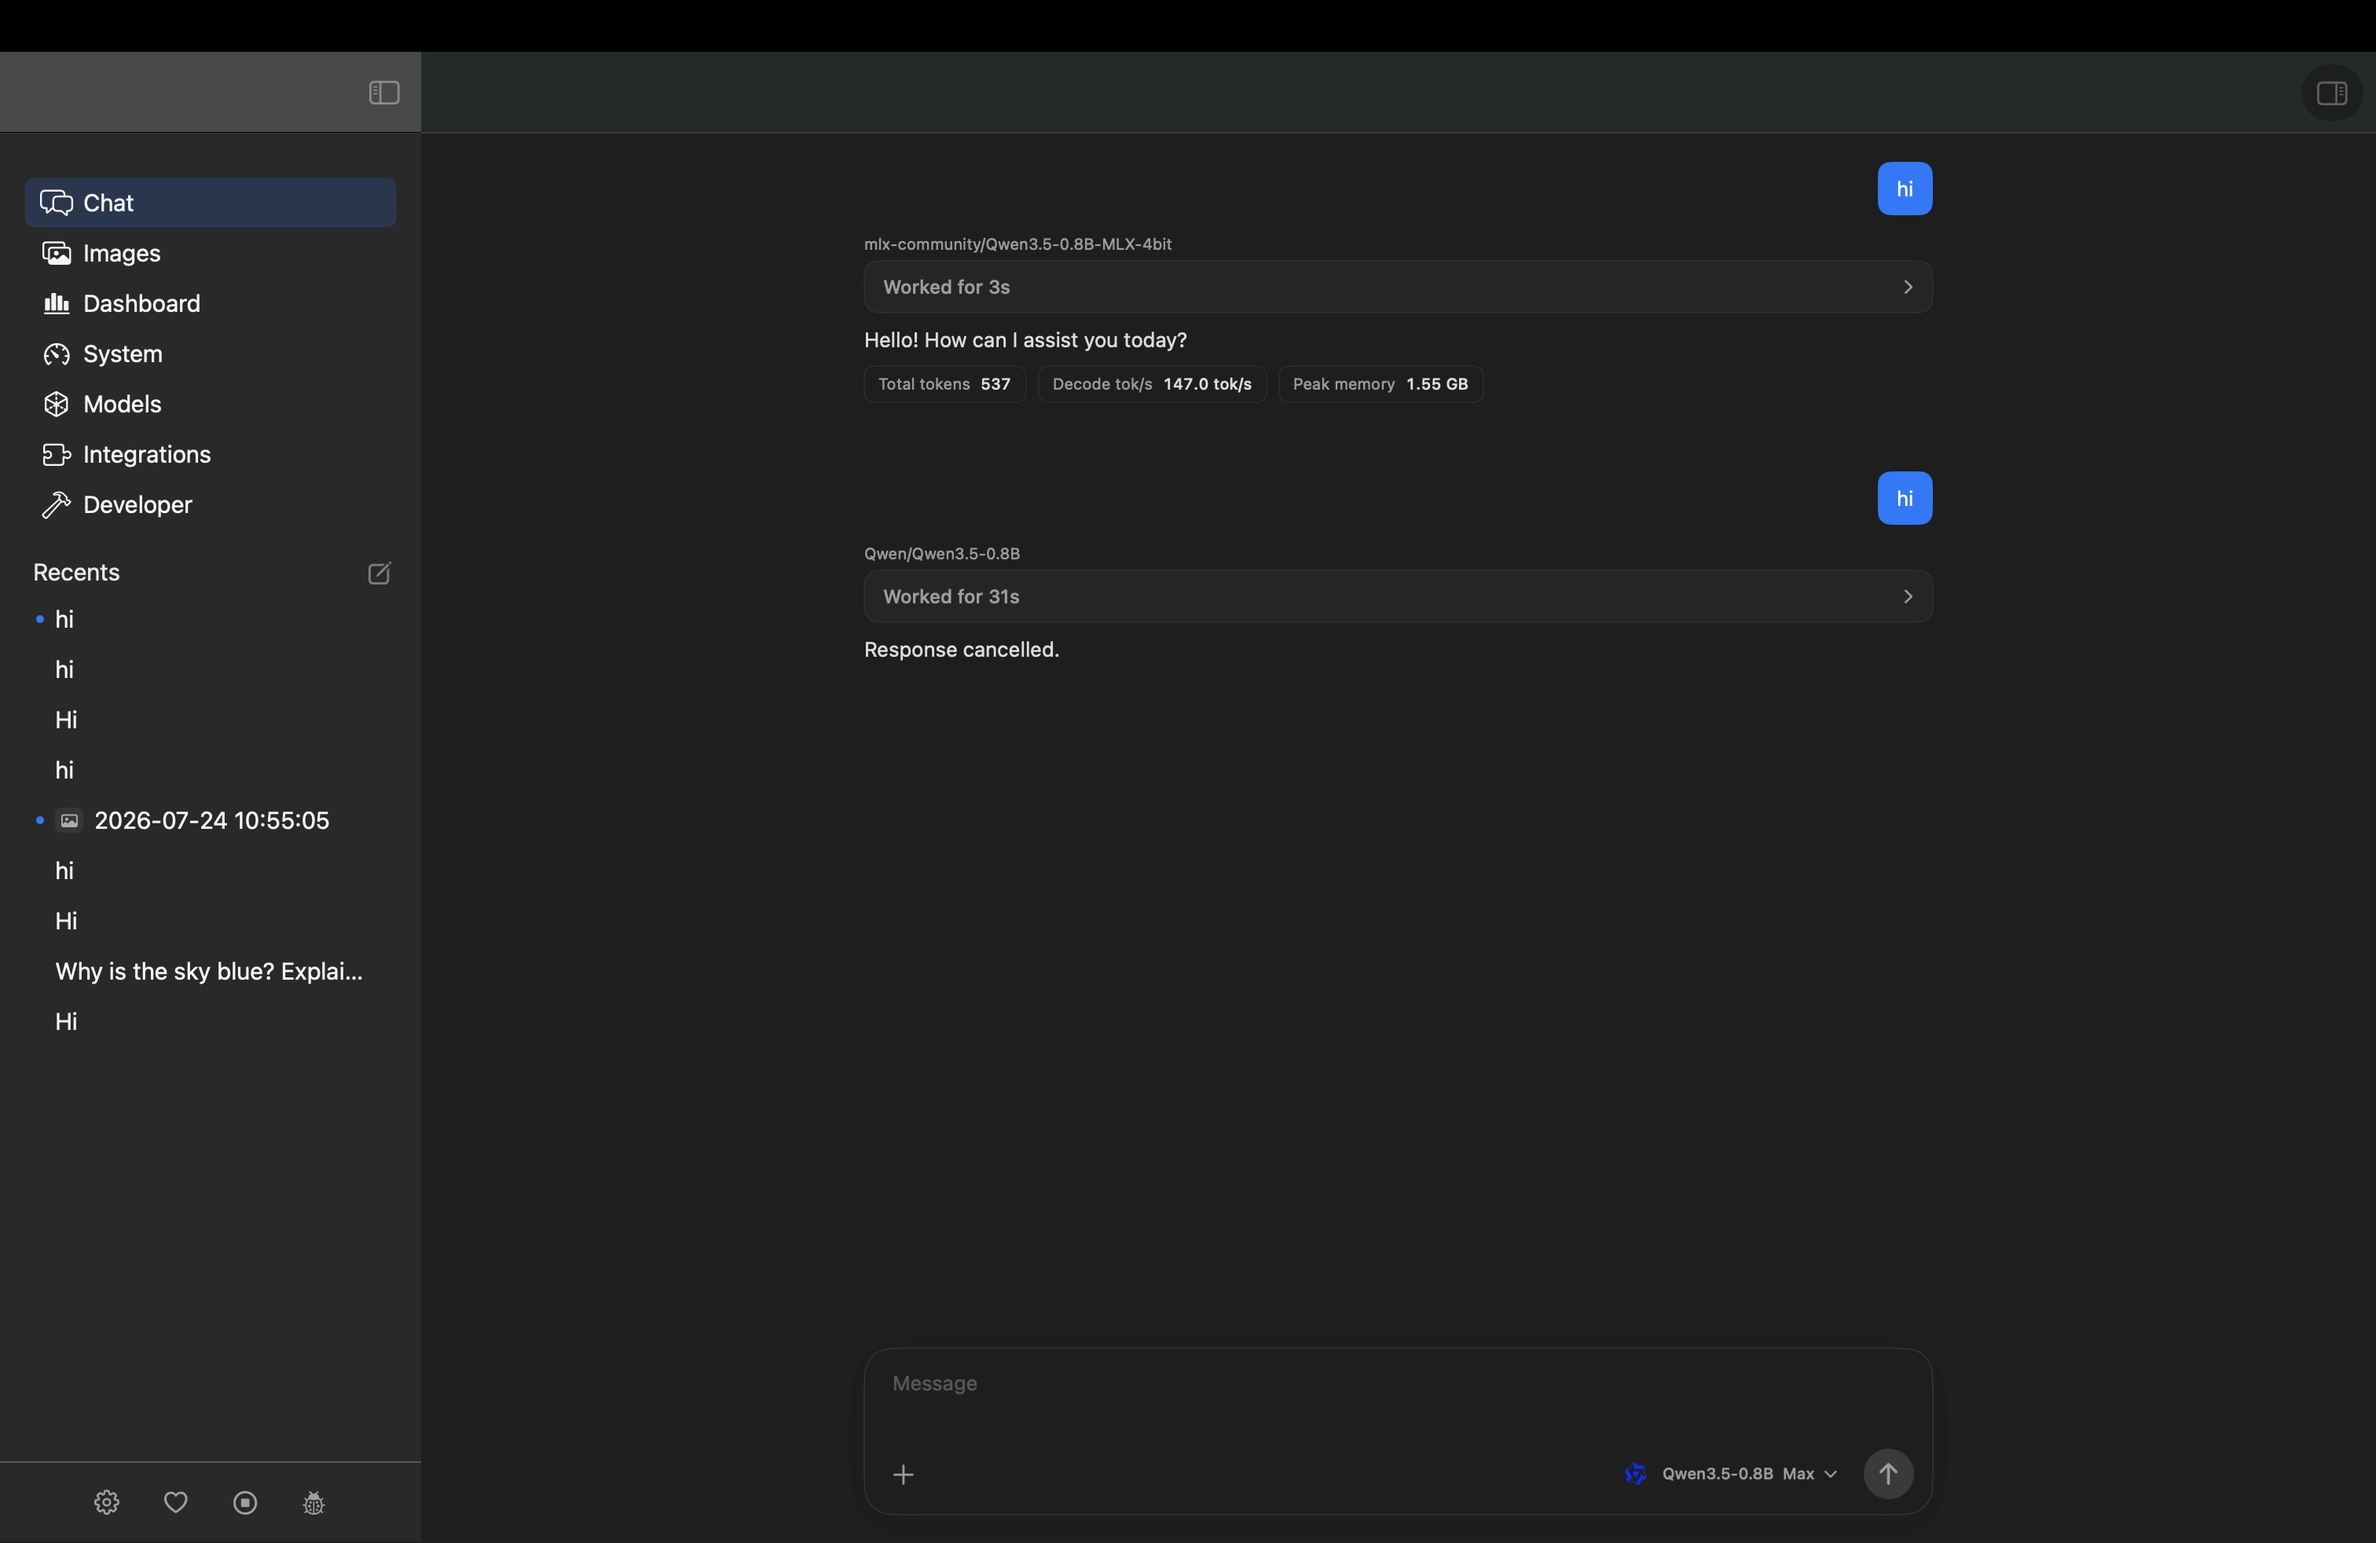
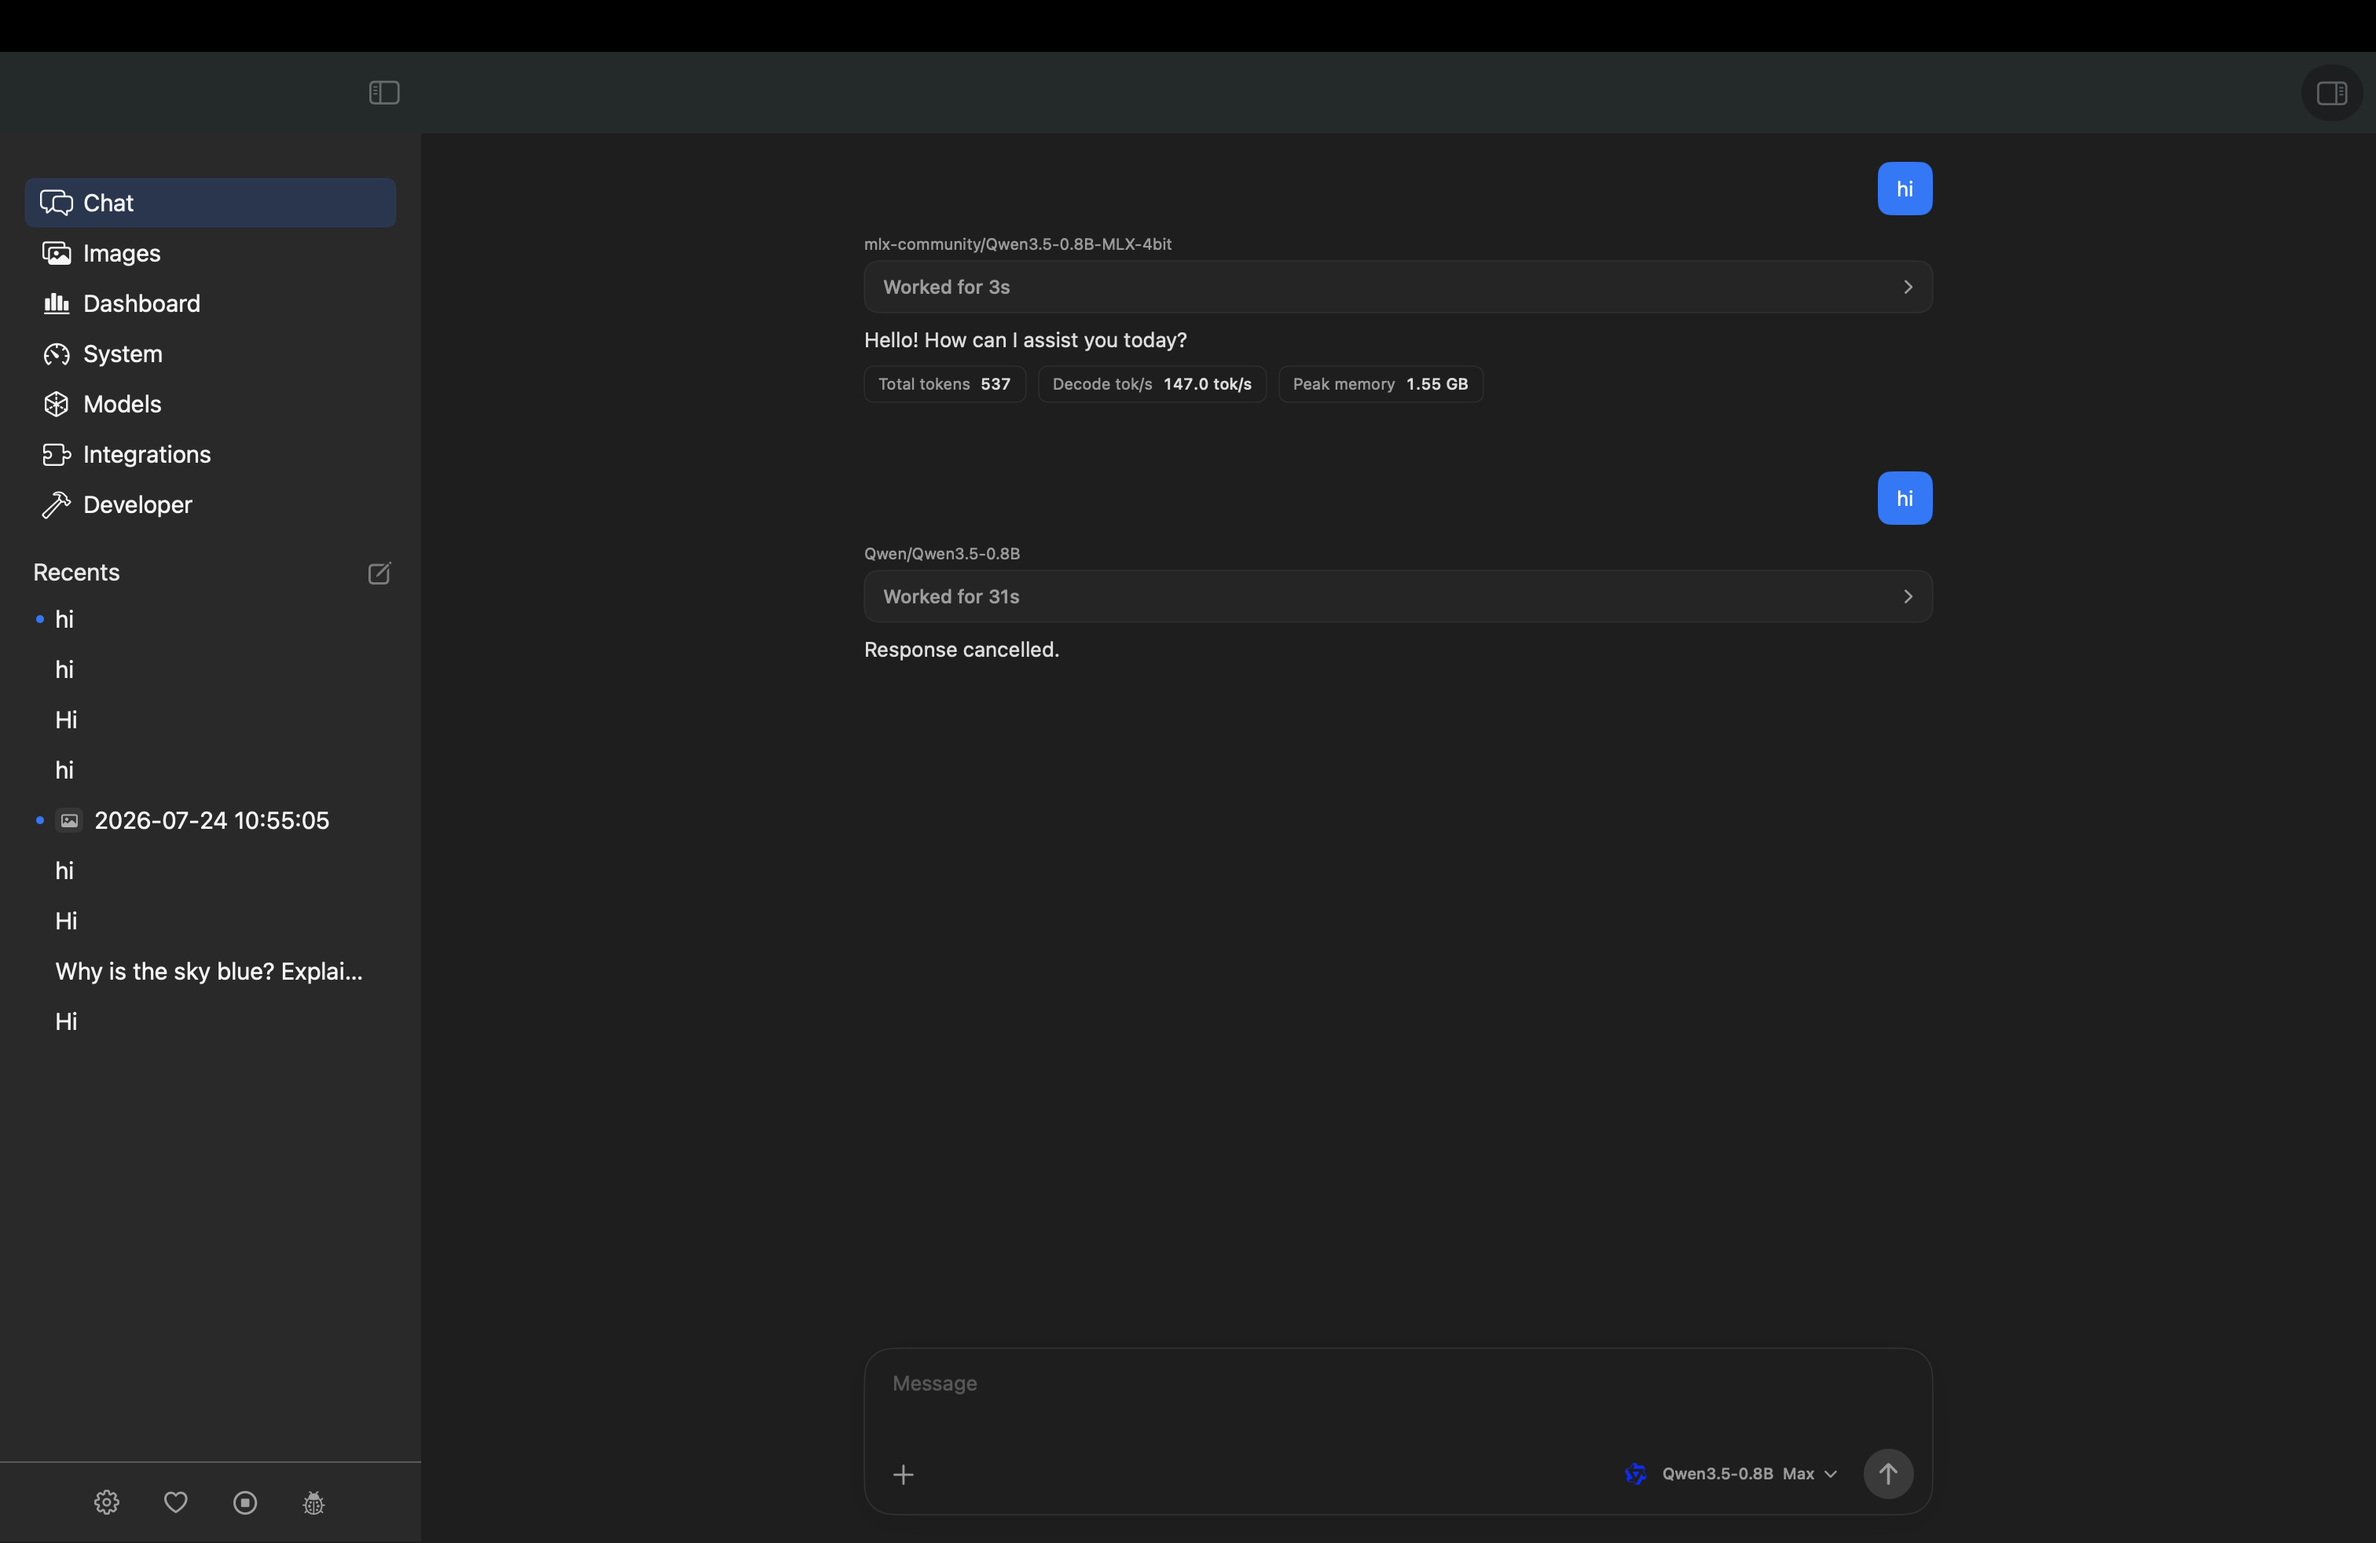
Unify full-screen titlebar styling

Changed region(s): [[0.0, 0.0311, 0.1865, 0.0932]]

diff --git a/Sources/Nativ/ControlPanelView.swift b/Sources/Nativ/ControlPanelView.swift
@@ -1169,14 +1169,17 @@ private final class ControlPanelSurfaceReaderView: NSView {
     private func configureFullScreenTitlebarFill() {
         guard isFullScreen, let window else { return }
 
-        let toolbarWindow = NSApp.windows.first {
+        guard let toolbarWindow = NSApp.windows.first(where: {
             $0 !== window
                 && $0.isVisible
                 && $0.frame.height > 0
                 && $0.frame.height <= 100
                 && abs($0.frame.width - window.frame.width) < 1
+        }), let contentView = toolbarWindow.contentView else {
+            return
         }
-        guard let contentView = toolbarWindow?.contentView else { return }
+        toolbarWindow.titlebarSeparatorStyle = .none
+        hideFullScreenTitlebarSeparators(in: contentView)
 
         var titlebarGlass: NSGlassEffectView?
         var largestArea: CGFloat = 0
@@ -1211,9 +1214,9 @@ private final class ControlPanelSurfaceReaderView: NSView {
                 "NativFullScreenTitlebarFill"
             )
             fill.autoresizingMask = [.width, .height]
-            fill.material = .sidebar
-            fill.blendingMode = .behindWindow
-            fill.state = .active
+            fill.material = .contentBackground
+            fill.blendingMode = .withinWindow
+            fill.state = .followsWindowActiveState
             container.addSubview(fill, positioned: .above, relativeTo: titlebarGlass)
 
             titlebarFillView = fill
@@ -1222,9 +1225,28 @@ private final class ControlPanelSurfaceReaderView: NSView {
 
         guard let fill = titlebarFillView as? NSVisualEffectView else { return }
         fill.frame = container.bounds
-        fill.material = .sidebar
-        fill.blendingMode = .behindWindow
-        fill.state = .active
+        fill.material = .contentBackground
+        fill.blendingMode = .withinWindow
+        fill.state = .followsWindowActiveState
+    }
+
+    private func hideFullScreenTitlebarSeparators(in contentView: NSView) {
+        var views = [contentView]
+        var index = 0
+
+        while index < views.count {
+            let view = views[index]
+            index += 1
+            views.append(contentsOf: view.subviews)
+
+            let className = NSStringFromClass(type(of: view))
+            let isSeparator =
+                className.contains("NSTitlebarSeparatorView")
+                || className.contains("NSLayerBasedFillColorView")
+            if isSeparator, view.bounds.height <= 1 {
+                view.isHidden = true
+            }
+        }
     }
 }
 
